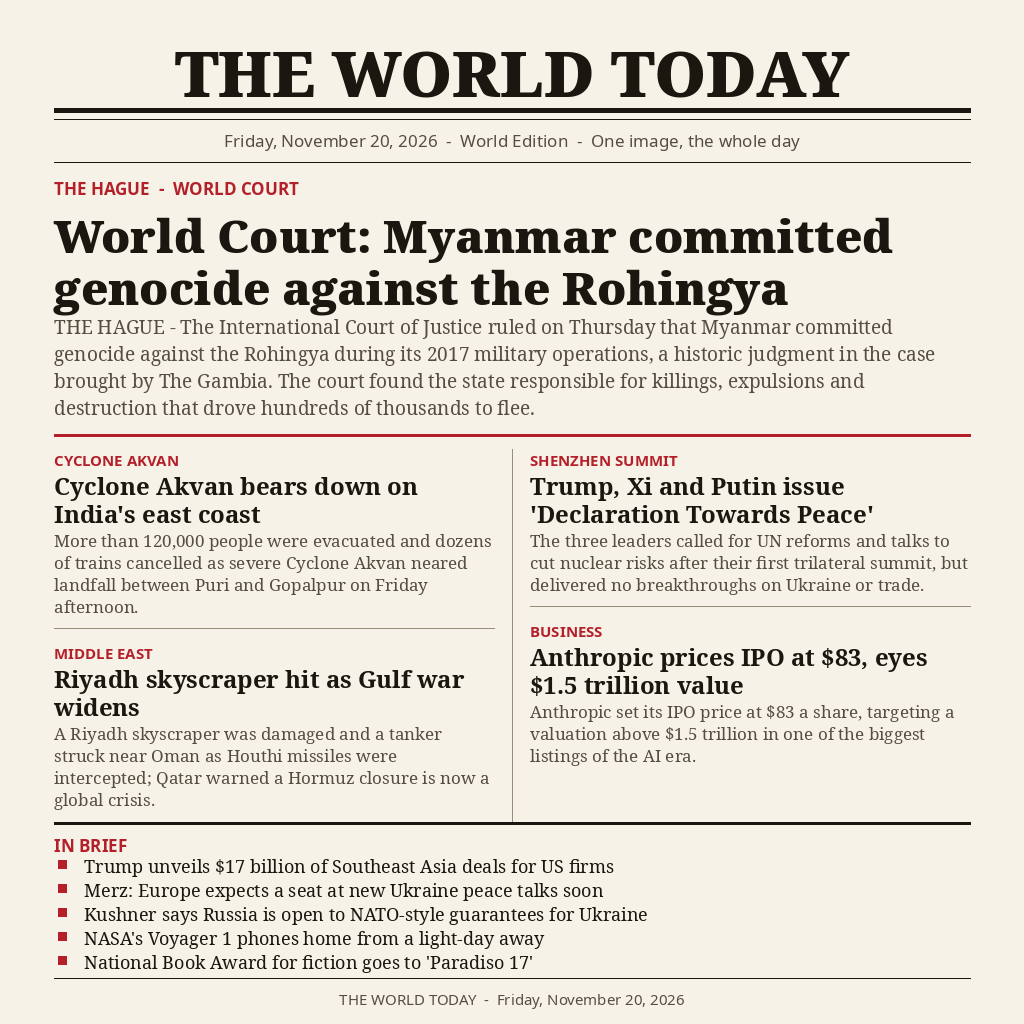
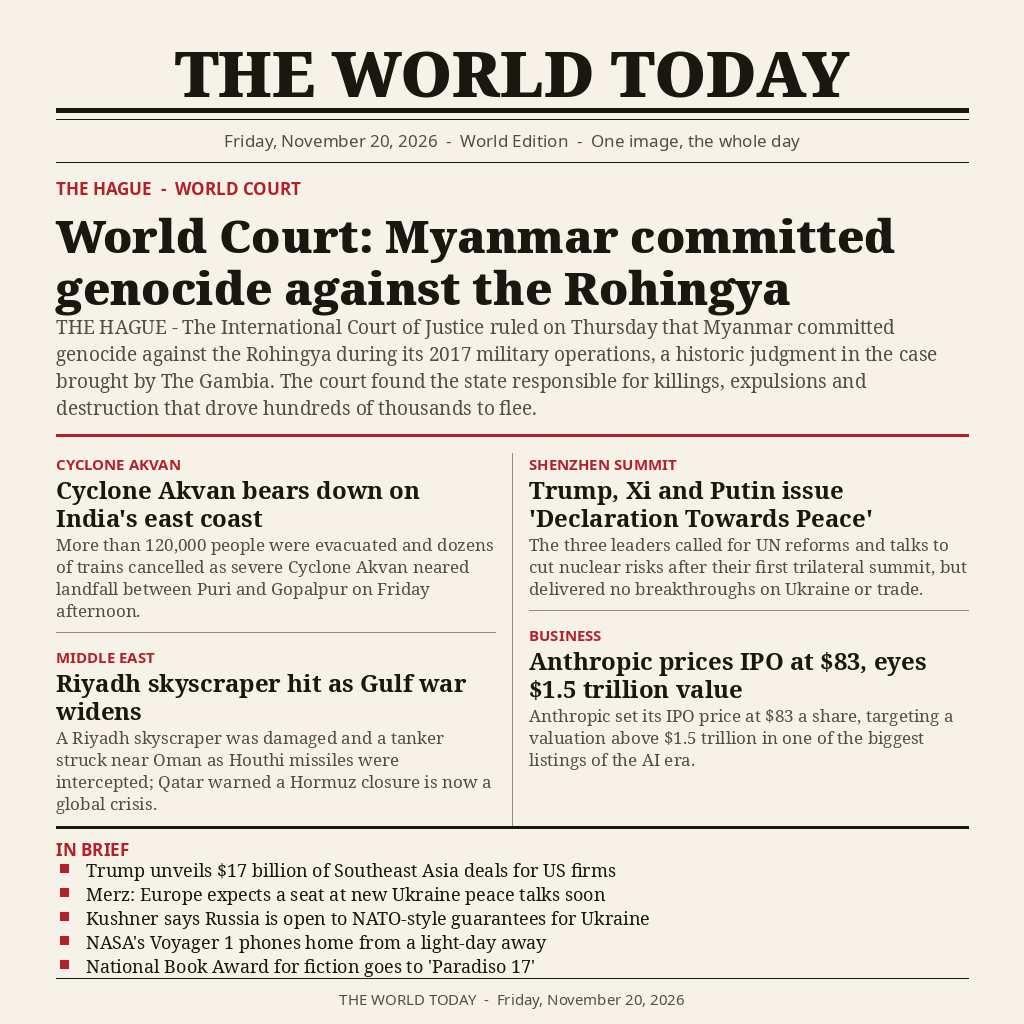
Rewrite renderer with section functions; entrypoint on pathlib

diff --git a/render.py b/render.py
@@ -1,112 +1,122 @@
-"""Newspaper front page for Friday 20 November 2026.
+"""Friday 20 November 2026, set as a classic newspaper front page.
 
-One 1024x1024 image that sums up the day's world news, styled as a
-classic broadsheet front page. Deterministic: fixed layout and fonts,
-no timestamps, no randomness.
+This script draws THE WORLD TODAY for 20 November 2026: one
+1024x1024 PNG, fully deterministic - the same fixed text, fonts and
+geometry on every run, with no clock and no random numbers. main.py
+copies the finished picture to /output/entry.png.
 """
-from PIL import Image, ImageDraw, ImageFont
 
-W = 1024
-H = 1024
+from PIL import Image
+from PIL import ImageDraw
+from PIL import ImageFont
 
-PAPER = (247, 242, 231)
-INK = (26, 23, 16)
-SOFT = (84, 78, 64)
-FAINT = (150, 142, 122)
-RED = (179, 32, 42)
-RULE = (26, 23, 16)
+PAGE = (1024, 1024)
+EDGE = 56
+GAP = 34
 
-SANS = "/usr/share/fonts/truetype/noto/NotoSans-Regular.ttf"
-SANS_B = "/usr/share/fonts/truetype/noto/NotoSans-Bold.ttf"
-SERIF = "/usr/share/fonts/truetype/noto/NotoSerif-Regular.ttf"
-SERIF_B = "/usr/share/fonts/truetype/noto/NotoSerif-Bold.ttf"
-SERIF_K = "/usr/share/fonts/truetype/noto/NotoSerif-Black.ttf"
+PALETTE = {
+    "paper": (247, 242, 231),
+    "ink": (26, 23, 16),
+    "grey": (84, 78, 64),
+    "pale": (150, 142, 122),
+    "red": (179, 32, 42),
+}
+
+FONT_FILES = {
+    "sans": "/usr/share/fonts/truetype/noto/NotoSans-Regular.ttf",
+    "sans-bold": "/usr/share/fonts/truetype/noto/NotoSans-Bold.ttf",
+    "serif": "/usr/share/fonts/truetype/noto/NotoSerif-Regular.ttf",
+    "serif-bold": "/usr/share/fonts/truetype/noto/NotoSerif-Bold.ttf",
+    "serif-black": "/usr/share/fonts/truetype/noto/NotoSerif-Black.ttf",
+}
 
 
-def font(path, size):
-    return ImageFont.truetype(path, size)
+def load(name, size):
+    return ImageFont.truetype(FONT_FILES[name], size)
 
 
-def wrap(draw, text, fnt, max_w):
-    words = text.split()
+def split_lines(draw, text, font, width):
+    words = text.split(" ")
     lines = []
-    cur = ""
-    for w in words:
-        trial = (cur + " " + w).strip()
-        if draw.textlength(trial, font=fnt) <= max_w:
-            cur = trial
+    current = ""
+    for word in words:
+        candidate = word if not current else current + " " + word
+        if draw.textlength(candidate, font=font) <= width:
+            current = candidate
         else:
-            if cur:
-                lines.append(cur)
-            cur = w
-    if cur:
-        lines.append(cur)
+            lines.append(current)
+            current = word
+    if current:
+        lines.append(current)
     return lines
 
 
-def draw_wrapped(draw, xy, text, fnt, fill, max_w, leading):
-    x, y = xy
-    for line in wrap(draw, text, fnt, max_w):
-        draw.text((x, y), line, font=fnt, fill=fill)
+def paragraph(draw, x, y, text, font, colour, width, leading):
+    for line in split_lines(draw, text, font, width):
+        draw.text((x, y), line, font=font, fill=colour)
         y += leading
     return y
 
 
-def centered(draw, y, text, fnt, fill):
-    w = draw.textlength(text, font=fnt)
-    draw.text(((W - w) / 2, y), text, font=fnt, fill=fill)
-    return y + fnt.size + 8
+def centred(draw, y, text, font, colour):
+    width = draw.textlength(text, font=font)
+    draw.text(((PAGE[0] - width) / 2, y), text, font=font, fill=colour)
+    return y + font.size + 8
 
 
-LEAD_HEAD = "World Court: Myanmar committed genocide against the Rohingya"
-LEAD_BODY = (
-    "THE HAGUE - The International Court of Justice ruled on Thursday "
-    "that Myanmar committed genocide against the Rohingya during its "
-    "2017 military operations, a historic judgment in the case brought "
-    "by The Gambia. The court found the state responsible for killings, "
-    "expulsions and destruction that drove hundreds of thousands to flee."
-)
+LEAD = {
+    "flag": "THE HAGUE  -  WORLD COURT",
+    "head": "World Court: Myanmar committed genocide against the Rohingya",
+    "text": (
+        "THE HAGUE - The International Court of Justice ruled on Thursday "
+        "that Myanmar committed genocide against the Rohingya during its "
+        "2017 military operations, a historic judgment in the case brought "
+        "by The Gambia. The court found the state responsible for killings, "
+        "expulsions and destruction that drove hundreds of thousands to flee."
+    ),
+}
 
-LEFT = [
-    {
-        "kicker": "CYCLONE AKVAN",
-        "title": "Cyclone Akvan bears down on India's east coast",
-        "body": (
-            "More than 120,000 people were evacuated and dozens of "
-            "trains cancelled as severe Cyclone Akvan neared landfall "
-            "between Puri and Gopalpur on Friday afternoon."
-        ),
-    },
-    {
-        "kicker": "MIDDLE EAST",
-        "title": "Riyadh skyscraper hit as Gulf war widens",
-        "body": (
-            "A Riyadh skyscraper was damaged and a tanker struck near "
-            "Oman as Houthi missiles were intercepted; Qatar warned a "
-            "Hormuz closure is now a global crisis."
-        ),
-    },
-]
-
-RIGHT = [
-    {
-        "kicker": "SHENZHEN SUMMIT",
-        "title": "Trump, Xi and Putin issue 'Declaration Towards Peace'",
-        "body": (
-            "The three leaders called for UN reforms and talks to cut "
-            "nuclear risks after their first trilateral summit, but "
-            "delivered no breakthroughs on Ukraine or trade."
-        ),
-    },
-    {
-        "kicker": "BUSINESS",
-        "title": "Anthropic prices IPO at $83, eyes $1.5 trillion value",
-        "body": (
-            "Anthropic set its IPO price at $83 a share, targeting a "
-            "valuation above $1.5 trillion in one of the biggest "
-            "listings of the AI era."
-        ),
-    },
+COLUMNS = [
+    [
+        {
+            "tag": "CYCLONE AKVAN",
+            "head": "Cyclone Akvan bears down on India's east coast",
+            "text": (
+                "More than 120,000 people were evacuated and dozens of "
+                "trains cancelled as severe Cyclone Akvan neared landfall "
+                "between Puri and Gopalpur on Friday afternoon."
+            ),
+        },
+        {
+            "tag": "MIDDLE EAST",
+            "head": "Riyadh skyscraper hit as Gulf war widens",
+            "text": (
+                "A Riyadh skyscraper was damaged and a tanker struck near "
+                "Oman as Houthi missiles were intercepted; Qatar warned a "
+                "Hormuz closure is now a global crisis."
+            ),
+        },
+    ],
+    [
+        {
+            "tag": "SHENZHEN SUMMIT",
+            "head": "Trump, Xi and Putin issue 'Declaration Towards Peace'",
+            "text": (
+                "The three leaders called for UN reforms and talks to cut "
+                "nuclear risks after their first trilateral summit, but "
+                "delivered no breakthroughs on Ukraine or trade."
+            ),
+        },
+        {
+            "tag": "BUSINESS",
+            "head": "Anthropic prices IPO at $83, eyes $1.5 trillion value",
+            "text": (
+                "Anthropic set its IPO price at $83 a share, targeting a "
+                "valuation above $1.5 trillion in one of the biggest "
+                "listings of the AI era."
+            ),
+        },
+    ],
 ]
 
 BRIEFS = [
@@ -118,81 +128,92 @@ BRIEFS = [
 ]
 
 
-def story(draw, x, y, col_w, item):
-    draw.text((x, y), item["kicker"], font=font(SANS_B, 15), fill=RED)
+def masthead(draw):
+    centred(draw, 28, "THE WORLD TODAY", load("serif-black", 64), PALETTE["ink"])
+    draw.line([(EDGE, 110), (PAGE[0] - EDGE, 110)], fill=PALETTE["ink"], width=5)
+    draw.line([(EDGE, 119), (PAGE[0] - EDGE, 119)], fill=PALETTE["ink"], width=1)
+    dateline = "Friday, November 20, 2026  -  World Edition  -  One image, the whole day"
+    centred(draw, 128, dateline, load("sans", 17), PALETTE["grey"])
+    draw.line([(EDGE, 162), (PAGE[0] - EDGE, 162)], fill=PALETTE["ink"], width=1)
+    return 176
+
+
+def lead_story(draw, y):
+    draw.text((EDGE, y), LEAD["flag"], font=load("sans-bold", 17), fill=PALETTE["red"])
+    y += 27
+    y = paragraph(draw, EDGE, y, LEAD["head"], load("serif-black", 46),
+                  PALETTE["ink"], PAGE[0] - 2 * EDGE, 52)
+    y += 6
+    y = paragraph(draw, EDGE, y, LEAD["text"], load("serif", 19),
+                  PALETTE["grey"], PAGE[0] - 2 * EDGE, 27)
+    y += 14
+    draw.line([(EDGE, y), (PAGE[0] - EDGE, y)], fill=PALETTE["red"], width=3)
+    return y + 18
+
+
+def column_story(draw, x, y, width, item):
+    draw.text((x, y), item["tag"], font=load("sans-bold", 15), fill=PALETTE["red"])
     y += 20
-    y = draw_wrapped(draw, (x, y), item["title"], font(SERIF_B, 24), INK, col_w, 28)
+    y = paragraph(draw, x, y, item["head"], load("serif-bold", 24),
+                  PALETTE["ink"], width, 28)
     y += 3
-    y = draw_wrapped(draw, (x, y), item["body"], font(SERIF, 17), SOFT, col_w, 22)
+    y = paragraph(draw, x, y, item["text"], load("serif", 17),
+                  PALETTE["grey"], width, 22)
     return y
 
 
-def main():
-    img = Image.new("RGB", (W, H), PAPER)
-    d = ImageDraw.Draw(img)
-    margin = 54
-
-    # masthead
-    centered(d, 28, "THE WORLD TODAY", font(SERIF_K, 64), INK)
-    d.line([(margin, 110), (W - margin, 110)], fill=RULE, width=5)
-    d.line([(margin, 119), (W - margin, 119)], fill=RULE, width=1)
-    dateline = "Friday, November 20, 2026  -  World Edition  -  One image, the whole day"
-    centered(d, 128, dateline, font(SANS, 17), SOFT)
-    d.line([(margin, 162), (W - margin, 162)], fill=RULE, width=1)
-
-    # lead story
-    y = 176
-    d.text((margin, y), "THE HAGUE  -  WORLD COURT", font=font(SANS_B, 17), fill=RED)
-    y += 27
-    y = draw_wrapped(d, (margin, y), LEAD_HEAD, font(SERIF_K, 46), INK, W - 2 * margin, 52)
-    y += 6
-    y = draw_wrapped(d, (margin, y), LEAD_BODY, font(SERIF, 19), SOFT, W - 2 * margin, 27)
-    y += 14
-    d.line([(margin, y), (W - margin, y)], fill=RED, width=3)
-    y += 14
-
-    # two columns
-    gap = 36
-    col_w = (W - 2 * margin - gap) // 2
-    left_x = margin
-    right_x = margin + col_w + gap
+def two_columns(draw, y):
+    width = (PAGE[0] - 2 * EDGE - GAP) // 2
+    left = EDGE
+    right = EDGE + width + GAP
     top = y
-    ly = top
-    for i, item in enumerate(LEFT):
-        ly = story(d, left_x, ly, col_w, item)
-        ly += 12
-        if i == 0:
-            d.line([(left_x, ly), (left_x + col_w, ly)], fill=FAINT, width=1)
-            ly += 14
-    ry = top
-    for i, item in enumerate(RIGHT):
-        ry = story(d, right_x, ry, col_w, item)
-        ry += 12
-        if i == 0:
-            d.line([(right_x, ry), (right_x + col_w, ry)], fill=FAINT, width=1)
-            ry += 14
-    # vertical divider between the columns
-    div_x = margin + col_w + gap // 2
-    d.line([(div_x, top), (div_x, max(ly, ry))], fill=FAINT, width=1)
-    y = max(ly, ry) + 2
+    ends = []
+    for x, stories in ((left, COLUMNS[0]), (right, COLUMNS[1])):
+        cursor = top
+        for position, item in enumerate(stories):
+            cursor = column_story(draw, x, cursor, width, item)
+            cursor += 12
+            if position == 0:
+                draw.line([(x, cursor), (x + width, cursor)],
+                          fill=PALETTE["pale"], width=1)
+                cursor += 14
+        ends.append(cursor)
+    divider = EDGE + width + GAP // 2
+    draw.line([(divider, top), (divider, max(ends))], fill=PALETTE["pale"], width=1)
+    return max(ends) + 2
 
-    # briefs strip
-    d.line([(margin, y), (W - margin, y)], fill=RULE, width=3)
+
+def briefs_block(draw, y):
+    draw.line([(EDGE, y), (PAGE[0] - EDGE, y)], fill=PALETTE["ink"], width=3)
     y += 10
-    d.text((margin, y), "IN BRIEF", font=font(SANS_B, 17), fill=RED)
+    draw.text((EDGE, y), "IN BRIEF", font=load("sans-bold", 17), fill=PALETTE["red"])
     y += 20
     for brief in BRIEFS:
-        d.rectangle([margin + 4, y + 7, margin + 12, y + 15], fill=RED)
-        y = draw_wrapped(d, (margin + 30, y), brief, font(SERIF, 18), INK, W - 2 * margin - 30, 22)
+        draw.rectangle([EDGE + 4, y + 7, EDGE + 12, y + 15], fill=PALETTE["red"])
+        y = paragraph(draw, EDGE + 30, y, brief, load("serif", 18),
+                      PALETTE["ink"], PAGE[0] - 2 * EDGE - 30, 22)
         y += 2
+    return y
 
-    # footer
-    d.line([(margin, H - 46), (W - margin, H - 46)], fill=RULE, width=1)
-    centered(d, H - 36, "THE WORLD TODAY  -  Friday, November 20, 2026", font(SANS, 15), SOFT)
 
-    img.save("news_image.png", format="PNG", optimize=False)
-    print("saved news_image.png", img.size)
+def footer(draw):
+    draw.line([(EDGE, PAGE[1] - 46), (PAGE[0] - EDGE, PAGE[1] - 46)],
+              fill=PALETTE["ink"], width=1)
+    centred(draw, PAGE[1] - 36, "THE WORLD TODAY  -  Friday, November 20, 2026",
+            load("sans", 15), PALETTE["grey"])
+
+
+def build():
+    canvas = Image.new("RGB", PAGE, PALETTE["paper"])
+    draw = ImageDraw.Draw(canvas)
+    y = masthead(draw)
+    y = lead_story(draw, y)
+    y = two_columns(draw, y)
+    briefs_block(draw, y)
+    footer(draw)
+    canvas.save("news_image.png")
+    print("saved news_image.png", canvas.size)
 
 
 if __name__ == "__main__":
-    main()
+    build()

diff --git a/main.py b/main.py
@@ -1,20 +1,21 @@
-"""Entry point: copy the pre-rendered news image to /output/entry.png.
+"""Copy the pre-rendered front page to /output/entry.png.
 
-Uses only the Python standard library. The image itself is produced by
-render.py (Pillow) and committed as news_image.png next to this file.
+Only the Python standard library is used here. The picture itself is
+drawn by render.py (Pillow) and shipped in this repository as
+news_image.png, next to this file.
 """
-import os
+
 import shutil
+from pathlib import Path
 
 
 def main():
-    here = os.path.dirname(os.path.abspath(__file__))
-    src = os.path.join(here, "news_image.png")
-    out_dir = "/output"
-    os.makedirs(out_dir, exist_ok=True)
-    dst = os.path.join(out_dir, "entry.png")
-    shutil.copyfile(src, dst)
-    print("wrote", dst)
+    folder = Path(__file__).resolve().parent
+    source = folder / "news_image.png"
+    target = Path("/output") / "entry.png"
+    target.parent.mkdir(parents=True, exist_ok=True)
+    shutil.copyfile(source, target)
+    print("wrote", target, target.stat().st_size, "bytes")
 
 
 if __name__ == "__main__":
